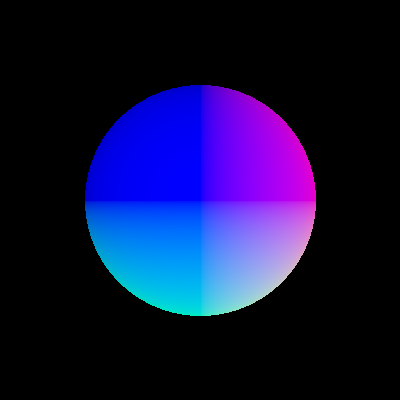
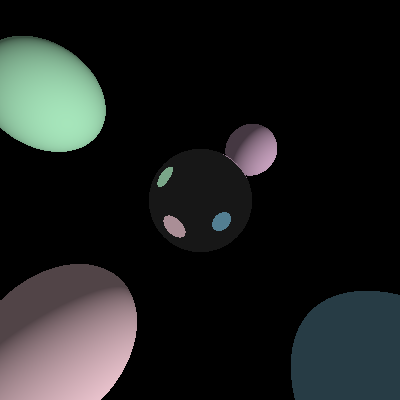
ini - center of attention

diff --git a/src/cgg/a02/RayTracer.java b/src/cgg/a02/RayTracer.java
@@ -1,24 +1,76 @@
 package cgg.a02;
 
+import static java.lang.Math.*;
 import tools.*;
 import static tools.Functions.*;
 
 public class RayTracer implements Sampler
 {
-	private Camera camera;
-	private Sphere sphere;
+	private Scene scene;
 
-	public RayTracer(Camera camera,Sphere sphere)
+	public RayTracer(Scene scene)
 	{
-		this.camera = camera;
-		this.sphere = sphere;
+		this.scene = scene;
 	}
 
 	public Color getColor(Vec2 coord)
 	{
-		Ray __Ray = camera.generateRay(coord);
-		Hit __Hit = sphere.intersect(__Ray);
+		// emit ray towards scene
+		Ray __Ray = scene.camera().generateRay(coord);
+
+		// process bland hits
+		Hit __Hit = null;
+		for (Sphere sphere : scene.blands())
+		{
+			Hit __Proc = sphere.intersect(__Ray);
+			__Hit = (__Hit==null||(__Proc!=null&&__Proc.param()<__Hit.param())) ? __Proc : __Hit;
+		}
+
+		// process reflective hits
+		boolean __ReflectRay = false;
+		Hit __Proc = scene.reflector().intersect(__Ray);
+		if (__Hit==null||(__Proc!=null&&__Proc.param()<__Hit.param()))
+		{
+			__Hit = __Proc;
+			__ReflectRay = true;
+		}
+
+		// combine
 		if (__Hit==null) return color(0,0,0);
-		return color(__Hit.normal());
+		if (__ReflectRay) return shadeReflective(__Hit);
+		return shade(__Hit);
 	}
+
+	private static Color shade(Hit hit)
+	{
+		Vec3 lightDir = normalize(vec3(1,1,.7));
+		Color ambient = multiply(.1,hit.colour());
+		Color diffuse = multiply(.9*max(0,dot(lightDir,hit.normal())),hit.colour());
+		return add(ambient,diffuse);
+	}
+
+	private Color shadeReflective(Hit hit)
+	{
+		// calculate reflective bouncing ray
+		Vec3 vd = subtract(hit.position(),scene.camera().position());
+		Vec3 __OutBounce = add(vd,multiply(2*dot(multiply(vd,-1),hit.normal()),hit.normal()));
+		Ray __Ray = new Ray(hit.position(),__OutBounce,0,10000);
+
+		// receive colour source & combine
+		Hit __Hit = null;
+		for (Sphere sphere : scene.blands())
+		{
+			Hit __Proc = sphere.intersect(__Ray);
+			__Hit = (__Hit==null||(__Proc!=null&&__Proc.param()<__Hit.param())) ? __Proc : __Hit;
+		}
+		Color __Fin = color(.005,.005,.005);
+		if (__Hit!=null) __Fin = __Fin.mix(__Hit.colour());
+		return __Fin;
+		// TODO: dont reproduce code from scene iteration
+		// TODO: prettify combination
+	}
+
+	// TODO: ziegelsteinspheres
+	// TODO: semi-transparent volumetric gas spheres
+	// TODO: rough spheres
 }

diff --git a/src/cgg/a02/Scene.java b/src/cgg/a02/Scene.java
@@ -1,0 +1,32 @@
+package cgg.a02;
+
+import java.util.ArrayList;
+import static tools.Functions.*;
+import tools.*;
+
+public class Scene
+{
+	private Camera camera;
+	private ArrayList<Sphere> blands;
+	private Sphere reflector;
+
+	public Scene(int width,int height)
+	{
+		// camera setup
+		this.camera = new Camera(vec3(0,0,0),90,width,height);
+
+		// bland sphere setup
+		blands = new ArrayList<Sphere>();
+		blands.add(new Sphere(vec3(-2,2,-3),1,randomColor()));
+		blands.add(new Sphere(vec3(-3,-2,-4),1,randomColor()));
+		blands.add(new Sphere(vec3(2,2,-2),1,randomColor()));
+		blands.add(new Sphere(vec3(2,-2,-8),1,randomColor()));
+
+		// reflector setup
+		reflector = new Sphere(vec3(0,0,-4),1,color(vec3(.5,.2,.1)));
+	}
+
+	public Camera camera() { return camera; }
+	public ArrayList<Sphere> blands() { return blands; }
+	public Sphere reflector() { return reflector; }
+}

diff --git a/src/cgg/a02/Main.java b/src/cgg/a02/Main.java
@@ -13,11 +13,10 @@ public class Main
 		int height = 400;
 
 		// generate scene
-		Camera camera = new Camera(vec3(0,0,0),90,width,height);
-		Sphere sphere = new Sphere(vec3(0,0,-2),1,color(vec3(1,1,1)));
+		Scene scene = new Scene(width,height);
 
 		// samplers
-		Sampler sampler = new RayTracer(camera,sphere);
+		Sampler sampler = new RayTracer(scene);
 
 		// images
 		cgg.Image image = new cgg.Image(width,height);

diff --git a/src/cgg/a02/Camera.java b/src/cgg/a02/Camera.java
@@ -30,4 +30,6 @@ public class Camera
 		Vec3 ray_direction = normalize(vec3(coord.x()-hwidth,coord.y()-height*.5,-hwidth/tan(rad_fov*.5)));
 		return new Ray(position,ray_direction,near,far);
 	}
+
+	public Vec3 position() { return position; }
 }
